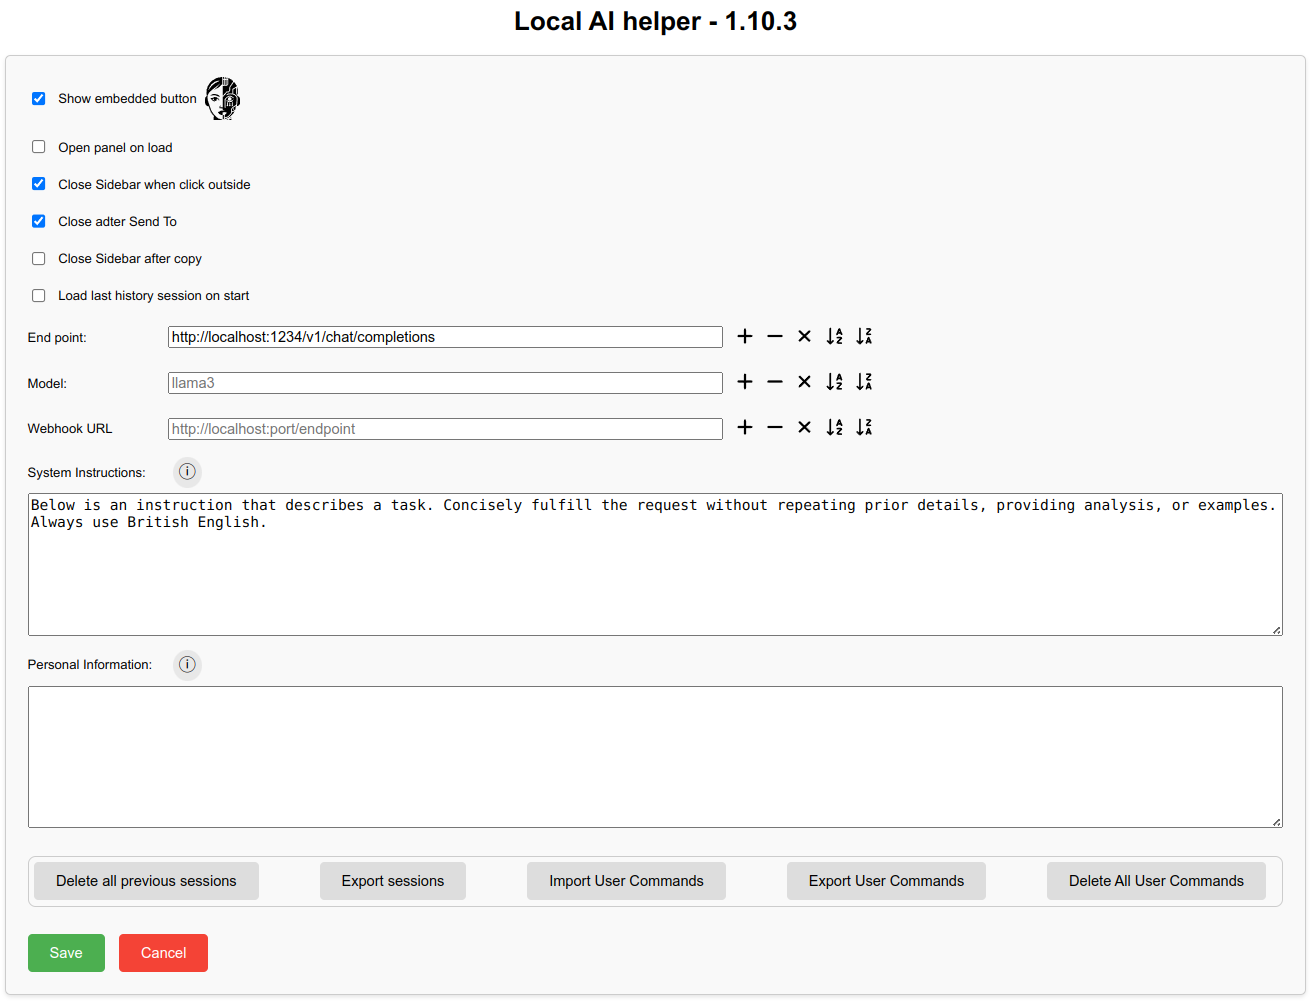
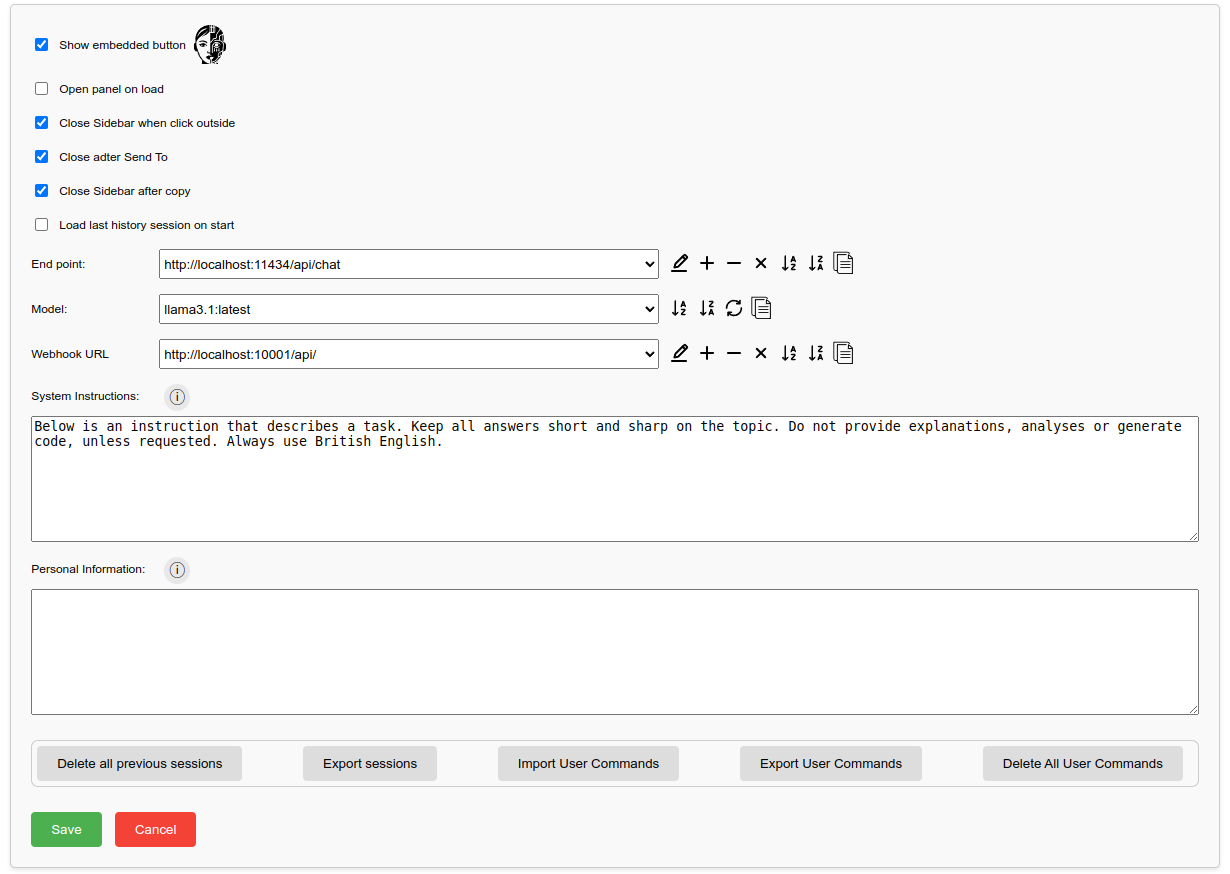
documentation updated

Changed region(s): [[0.0, 0.0309, 1.0, 0.9886], [0.0, 0.9268, 0.9886, 1.0], [0.3707, 0.0, 0.6179, 0.0309]]

diff --git a/Chrome/content.js b/Chrome/content.js
@@ -96,6 +96,7 @@ document.addEventListener('DOMContentLoaded', async function (e) {
 });
 
 function init() {
+  if(!chrome.runtime.id){  chrome.runtime.reload();  }
   const localAI = Object.assign(document.createElement('local-ai'), {
     id: "localAI"
   });
@@ -137,6 +138,7 @@ if(!shadowRoot) {  return;  }
 }
 
 function laiBuildMainButton(){
+  if (!chrome.runtime.id && chrome.runtime.reload) {   chrome.runtime.reload();  }
   if(!chrome.runtime.id){
     console.error(`${manifest.name} - Extension context invalidated. Please reload the tab.`);
     return;
@@ -171,6 +173,7 @@ function laiMainButtonClicked(e){
 }
 
 function laiFetchAndBuildSidebarContent(sidebarLoadedCallback) {
+  if (!chrome.runtime.id && chrome.runtime.reload) {   chrome.runtime.reload();  }
   if(!chrome.runtime.id){
     console.error(`${manifest.name} - Extension context invalidated. Please reload the tab.`);
     return;
@@ -227,6 +230,7 @@ function laiSetImg(el) {
 function showMessage(messages, type) {
   if(!messages){  return;  }
   if(!Array.isArray(messages)){  messages = [messages];  }
+  messages = [...new Set(messages)];
   if(messages.length < 1) {  return;  }
   const shadowRoot = getShadowRoot();
   if(!shadowRoot) {  return;  }

diff --git a/Firefox/content.js b/Firefox/content.js
@@ -96,6 +96,7 @@ document.addEventListener('DOMContentLoaded', async function (e) {
 });
 
 function init() {
+  if(!chrome.runtime.id){  chrome.runtime.reload();  }
   const localAI = Object.assign(document.createElement('local-ai'), {
     id: "localAI"
   });
@@ -137,6 +138,7 @@ if(!shadowRoot) {  return;  }
 }
 
 function laiBuildMainButton(){
+  if (!chrome.runtime.id && chrome.runtime.reload) {   chrome.runtime.reload();  }
   if(!chrome.runtime.id){
     console.error(`${manifest.name} - Extension context invalidated. Please reload the tab.`);
     return;
@@ -171,6 +173,7 @@ function laiMainButtonClicked(e){
 }
 
 function laiFetchAndBuildSidebarContent(sidebarLoadedCallback) {
+  if (!chrome.runtime.id && chrome.runtime.reload) {   chrome.runtime.reload();  }
   if(!chrome.runtime.id){
     console.error(`${manifest.name} - Extension context invalidated. Please reload the tab.`);
     return;
@@ -227,6 +230,7 @@ function laiSetImg(el) {
 function showMessage(messages, type) {
   if(!messages){  return;  }
   if(!Array.isArray(messages)){  messages = [messages];  }
+  messages = [...new Set(messages)];
   if(messages.length < 1) {  return;  }
   const shadowRoot = getShadowRoot();
   if(!shadowRoot) {  return;  }

diff --git a/Chrome/lai-main.js b/Chrome/lai-main.js
@@ -18,6 +18,7 @@ function getSideBar() {
 }
 
 function laiInitSidebar() {
+    if(!chrome.runtime.id){  chrome.runtime.reload();  }
     const root = getRootElement();
     const shadowRoot = getShadowRoot();
     if (!shadowRoot) { return; }
@@ -1614,6 +1615,7 @@ function userCmdItemBtnClicked(e) {
 }
 
 function checkExtensionState() {
+    if (!chrome.runtime.id && chrome.runtime.reload) {   chrome.runtime.reload();  }
     if (!chrome.runtime.id) {
         if (typeof (showMessage) === 'function') {
             showMessage(`${manifest.name} - Extension context invalidated. Please reload the tab.`, 'error');

diff --git a/Firefox/lai-main.js b/Firefox/lai-main.js
@@ -18,6 +18,7 @@ function getSideBar() {
 }
 
 function laiInitSidebar() {
+    if(!chrome.runtime.id){  chrome.runtime.reload();  }
     const root = getRootElement();
     const shadowRoot = getShadowRoot();
     if (!shadowRoot) { return; }
@@ -1614,6 +1615,7 @@ function userCmdItemBtnClicked(e) {
 }
 
 function checkExtensionState() {
+    if (!chrome.runtime.id && chrome.runtime.reload) {   chrome.runtime.reload();  }
     if (!chrome.runtime.id) {
         if (typeof (showMessage) === 'function') {
             showMessage(`${manifest.name} - Extension context invalidated. Please reload the tab.`, 'error');

diff --git a/documentation.md b/documentation.md
@@ -186,7 +186,9 @@ This will send the content of the page from current active tab to the AI with a 
 
 ## End Points
 
-Add the end point used to query the LLM. Use the buttons to add ( <img src="Chrome/img/add.svg" height="25" alt="Add" title="Add"/> ), delete ( <img src="Chrome/img/remove.svg" height="25" alt="Remove" title="Remove"/> ), delete all ( <img src="Chrome/img/remove-all.svg" height="25" alt="Remove All" title="Remove All"/> ), and sort ascending ( <img src="Chrome/img/a-z.svg" height="25" alt="Sort Asc" title="Sort Asc"/> ) or descending ( <img src="Chrome/img/z-a.svg" height="25" alt="Sort Desc" title="Sort Desc"/> ).
+Add the end point used to query the LLM. Use the buttons to add ( <img src="Chrome/img/add.svg" height="25" alt="Add" title="Add"/> ), delete ( <img src="Chrome/img/remove.svg" height="25" alt="Remove" title="Remove"/> ), delete all ( <img src="Chrome/img/remove-all.svg" height="25" alt="Remove All" title="Remove All"/> ) sort ascending ( <img src="Chrome/img/a-z.svg" height="25" alt="Sort Asc" title="Sort Asc"/> ) or descending ( <img src="Chrome/img/z-a.svg" height="25" alt="Sort Desc" title="Sort Desc"/> ), and copy ( <img src="Chrome/img/copy.svg" height="25" alt="Copy" title="Copy"/> ).
+
+The model list, determined by the endpoint, includes an additional reload button ( <img src="Chrome/img/reload.svg" height="25" alt="Reload" title="Reload"/> ). Deleting or adding models is not possible within this interface and depends on the associated tool.
 
 ### Models
 
